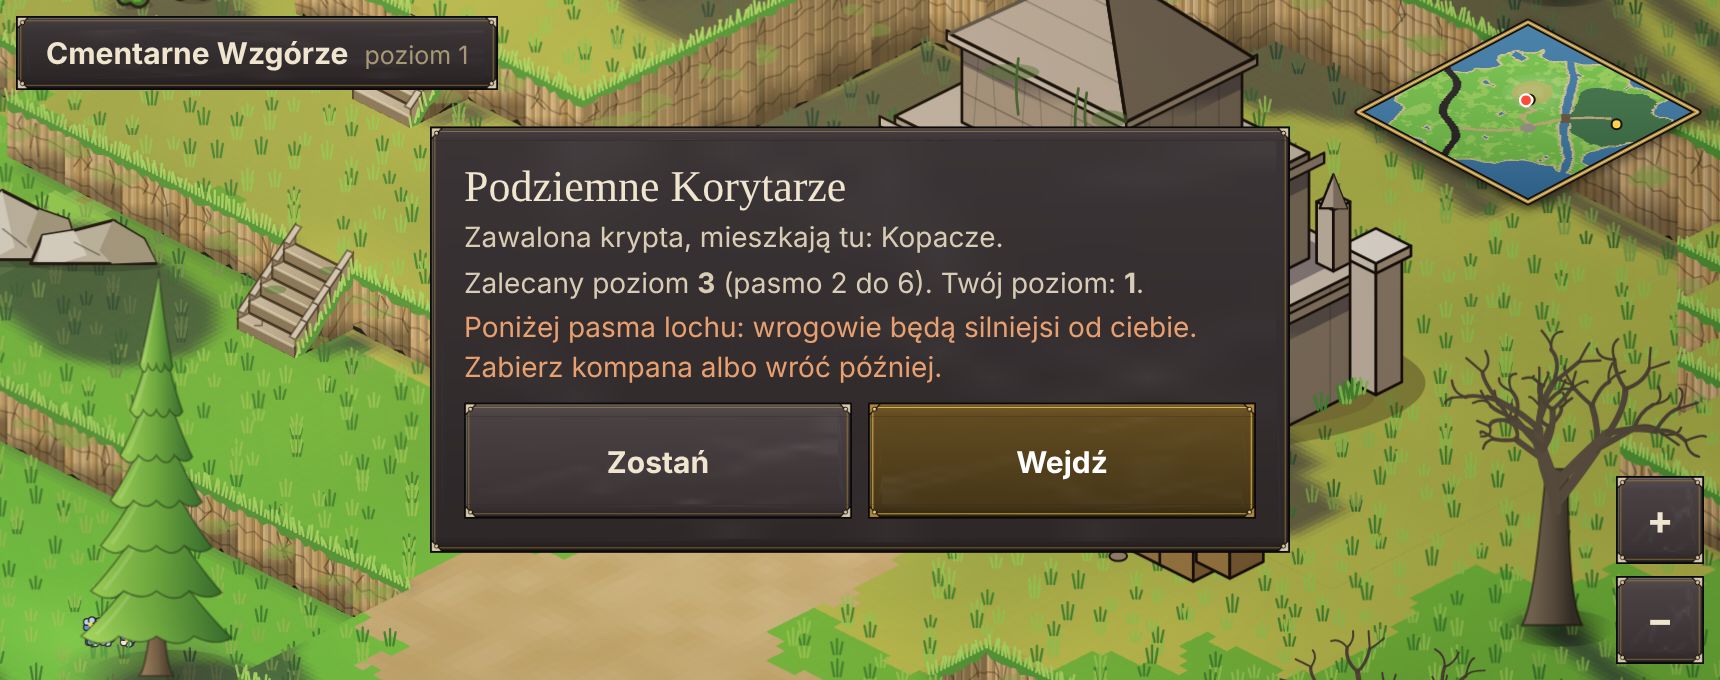
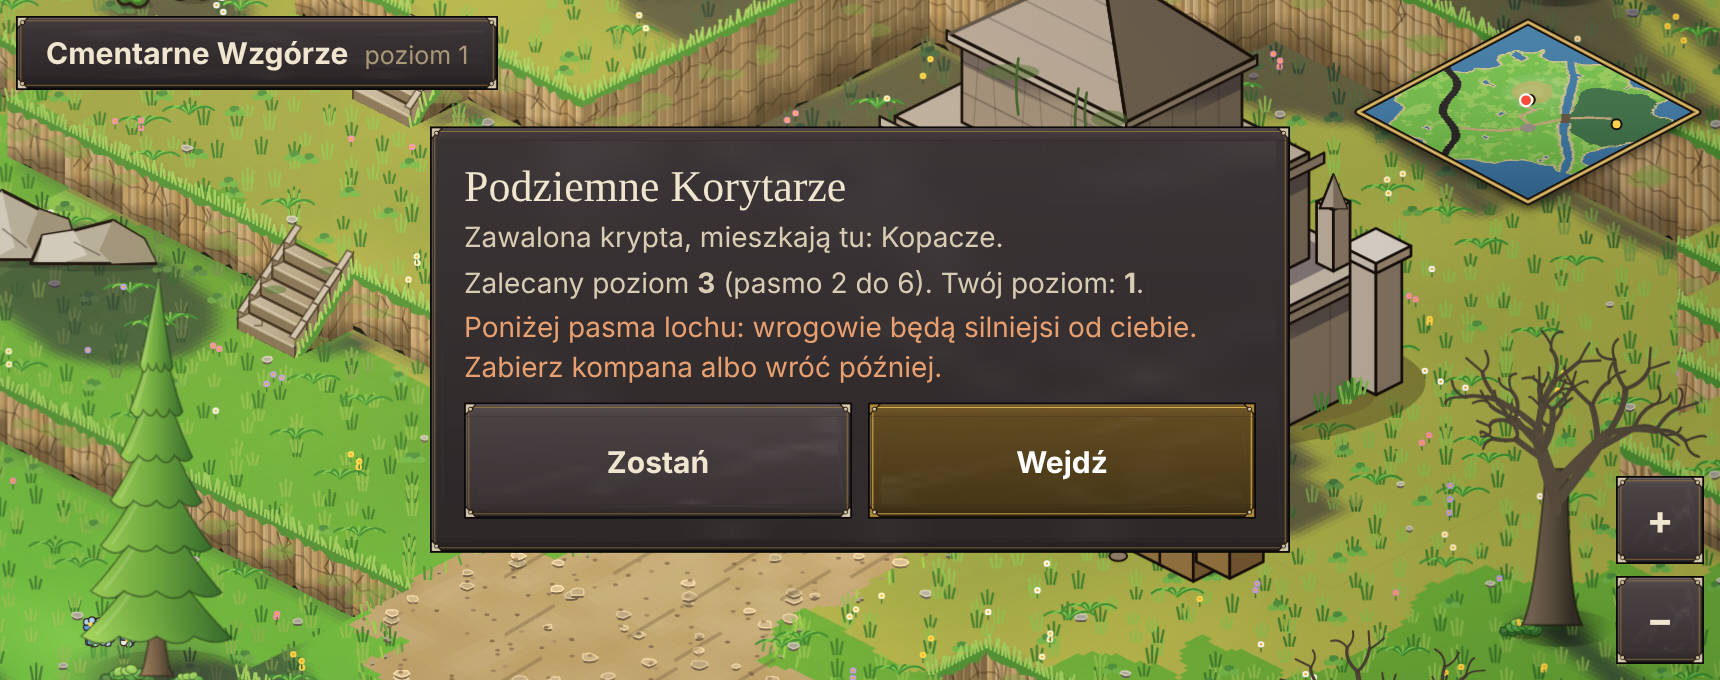
Bogatszy grunt: kocie łby na placu, kamienie i koleiny na drogach, kwiaty, paprocie, kamyki, gładsze granice gruntu, kępy liści przy budynkach i drzewach, dachy z zaokrąglonymi dachówkami i żywszą paletą
Claude-Session: https://claude.ai/code/session_01YGgK3XekFYaLDhBRBtmmRq

diff --git a/src/art/worldview.js b/src/art/worldview.js
@@ -71,6 +71,46 @@ export class WorldView {
     for (let j = 2; j < n - 2; j++) for (let i = 0; i < n; i++) { let v = 0; for (let d = -2; d <= 2; d++) v += tmp[(j + d) * n + i] * K[d + 2]; bl[j * n + i] = v / 9; }
     return { x0, y0, n, arr, bl };
   }
+  // detale gruntu: kocie łby na placu, kamienie i koleiny na drogach, kwiaty, koniczyna, paprocie, kamyki i źdźbła na brzegach ścieżek
+  drawDecals(g, tx, ty, z0, kind, ts, TINT) {
+    const w = this.w, K = w.KIND, P = (u, v) => this.proj(tx + u, ty + v, z0), h = (a, b = 0) => hash2(a * 7 + 3, tx * 13 + b, ty * 17 + b * 5);
+    const dk = (c) => rgbStr(ts > 0.02 ? [c[0] + (TINT[0] - c[0]) * ts, c[1] + (TINT[1] - c[1]) * ts, c[2] + (TINT[2] - c[2]) * ts] : c);
+    const stone = (u, v, r, col, hi, sd) => {
+      const pts = []; for (let i = 0; i < 8; i++) { const a = i / 8 * Math.PI * 2, rr = r * (0.82 + 0.36 * hash2(sd + i, tx * 5 + Math.round(u * 100), ty * 3 + Math.round(v * 100))); pts.push(P(u + Math.cos(a) * rr, v + Math.sin(a) * rr)); }
+      const path = (dy) => { g.beginPath(); g.moveTo(pts[0][0], pts[0][1] + dy); for (let i = 1; i < 8; i++) g.lineTo(pts[i][0], pts[i][1] + dy); g.closePath(); };
+      path(1.6); g.fillStyle = dk([col[0] * 0.55, col[1] * 0.52, col[2] * 0.5]); g.fill();   // bok kamienia
+      path(0); g.fillStyle = dk(col); g.fill();
+      if (hi) { path(-0.1); g.strokeStyle = dk([Math.min(255, col[0] + 38), Math.min(255, col[1] + 36), Math.min(255, col[2] + 30)]); g.lineWidth = 0.9; g.stroke(); }
+    };
+    const near = (dx, dy) => { const nx = tx + dx, ny = ty + dy; return nx < 0 || ny < 0 || nx >= N || ny >= N ? -1 : w.cellKind[ny * N + nx]; };
+    if (kind === K.plaza) {
+      // kocie łby: zaprawa jest już w tle, na niej 3 x 3 kamienie o różnych odcieniach
+      for (let j = 0; j < 3; j++) for (let i = 0; i < 3; i++) { const sd = i * 3 + j, u = (i + 0.5 + (h(sd, 1) - 0.5) * 0.3) / 3, v = (j + 0.5 + (h(sd, 2) - 0.5) * 0.3) / 3, t = h(sd, 3), c = [150 + 46 * t + 10 * h(sd, 4), 142 + 42 * t, 124 + 36 * t - 8 * h(sd, 5)]; stone(u, v, 0.15 + 0.035 * h(sd, 6), c, true, 50 + sd); }
+      return;
+    }
+    if (kind === K.road) {
+      for (let q = 0; q < 3; q++) if (h(10 + q) < 0.7) stone(0.14 + 0.72 * h(20 + q), 0.14 + 0.72 * h(30 + q), 0.05 + 0.05 * h(40 + q), [176 + 40 * h(50 + q), 156 + 34 * h(50 + q), 120 + 26 * h(50 + q)], true, 70 + q);
+      for (let q = 0; q < 6; q++) { const p = P(0.08 + 0.84 * h(60 + q), 0.08 + 0.84 * h(70 + q)); g.fillStyle = dk([120 + 50 * h(80 + q), 98 + 40 * h(80 + q), 70 + 30 * h(80 + q)]); g.beginPath(); g.ellipse(p[0], p[1], 1.6, 0.9, 0, 0, 7); g.fill(); }
+      // koleiny: dwie ciemniejsze smugi wzdłuż drogi
+      if (h(90) < 0.55) { const u = 0.3 + 0.4 * h(91), a = P(u, 0.05), b = P(u + 0.08, 0.95); g.strokeStyle = dk([100, 80, 56]); g.globalAlpha = 0.35; g.lineWidth = 2.2; g.beginPath(); g.moveTo(a[0], a[1]); g.lineTo(b[0], b[1]); g.stroke(); g.globalAlpha = 1; }
+      // brzeg: trawa wchodzi na drogę
+      for (const [dx, dy, ed] of [[1, 0, 1], [-1, 0, 0], [0, 1, 1], [0, -1, 0]]) { const nk = near(dx, dy); if (nk < 0 || nk > K.moss) continue; g.lineCap = 'round'; g.lineWidth = 1.5; for (let q = 0; q < 4; q++) { const t = 0.1 + 0.8 * h(100 + q + (dx ? 0 : 10)), p = dx ? P(ed, t) : P(t, ed), bh = 4 + 4 * h(110 + q); g.strokeStyle = q % 2 ? '#5a9a3a' : '#8ac04a'; g.beginPath(); g.moveTo(p[0], p[1]); g.lineTo(p[0] + (h(120 + q) - 0.5) * 5, p[1] - bh); g.stroke(); } }
+      return;
+    }
+    if (kind <= K.moss || kind === K.dry) {
+      const moss = kind === K.moss;
+      // kępki liści (koniczyna i paproć) w dwóch odcieniach, żeby trawa nie była jednolitym dywanem
+      for (let q = 0; q < 2; q++) if (h(130 + q) < 0.45) { const p = P(0.15 + 0.7 * h(140 + q), 0.15 + 0.7 * h(150 + q)), fern = h(160 + q) < 0.4, cols = moss ? ['#2c5a30', '#4a8a46'] : ['#3a8a30', '#7ac04a'];
+        if (fern) { g.lineWidth = 1.3; g.lineCap = 'round'; for (let k = -3; k <= 3; k++) { g.strokeStyle = k % 2 ? cols[0] : cols[1]; g.beginPath(); g.moveTo(p[0], p[1]); g.quadraticCurveTo(p[0] + k * 3, p[1] - 8, p[0] + k * 5.4, p[1] - 5 + Math.abs(k)); g.stroke(); } }
+        else for (let k = 0; k < 3; k++) { g.fillStyle = dk(k % 2 ? [74, 140, 60] : [110, 176, 70]); g.beginPath(); g.ellipse(p[0] + (k - 1) * 3.2, p[1] - (k === 1 ? 2.6 : 0), 3, 2, 0, 0, 7); g.fill(); } }
+      // kwiaty (tylko na łąkach, rzadziej w lesie)
+      if (!moss && h(170) < 0.3) { const n = 1 + Math.floor(h(171) * 3), base = ['#fff6d0', '#ffd84a', '#f58ab0', '#b79af0', '#ffffff'][Math.floor(h(172) * 5)]; for (let k = 0; k < n; k++) { const p = P(0.15 + 0.7 * h(173 + k), 0.15 + 0.7 * h(180 + k)); g.fillStyle = dk([60, 110, 50]); g.fillRect(p[0] - 0.4, p[1] - 4, 0.8, 4); g.fillStyle = base; g.beginPath(); g.arc(p[0], p[1] - 5, 2, 0, 7); g.fill(); g.fillStyle = '#f0a820'; g.beginPath(); g.arc(p[0], p[1] - 5, 0.8, 0, 7); g.fill(); } }
+      // kamyki
+      if (h(190) < 0.16) stone(0.2 + 0.6 * h(191), 0.2 + 0.6 * h(192), 0.04 + 0.04 * h(193), [150 + 30 * h(194), 148 + 28 * h(194), 138 + 24 * h(194)], true, 200);
+      // brzeg trawy przy drodze i placu: drobne źdźbła i kamyki wchodzą na ścieżkę
+      for (const [dx, dy] of [[1, 0], [-1, 0], [0, 1], [0, -1]]) { const nk = near(dx, dy); if (nk !== K.road && nk !== K.plaza && nk !== K.sand) continue; for (let q = 0; q < 3; q++) { const t = 0.12 + 0.76 * h(210 + q + (dx ? 0 : 7)), e = dx > 0 || dy > 0 ? 0.94 : 0.06, p = dx ? P(e, t) : P(t, e); if (h(220 + q) < 0.35) stone(dx ? e : t, dx ? t : e, 0.03, [168, 160, 140], false, 230 + q); else { g.strokeStyle = q % 2 ? '#4a8a30' : '#9ac84a'; g.lineWidth = 1.5; g.lineCap = 'round'; g.beginPath(); g.moveTo(p[0], p[1]); g.lineTo(p[0] + (h(240 + q) - 0.5) * 4, p[1] - 5 - 3 * h(250 + q)); g.stroke(); } } }
+    }
+  }
   drawTile(g, tx, ty) {
     const w = this.w, k = ty * N + tx, z = this.cornersZ(tx, ty), P = (fx, fy, zz) => this.proj(tx + fx, ty + fy, zz), K = w.KIND, kind = w.cellKind[k];
     if (w.ramp[k]) return this.drawRamp(g, tx, ty, z);
@@ -83,6 +123,10 @@ export class WorldView {
       const sv = []; let lo = 9, hi = -9, sum = 0;
       for (let q = 0; q < R * R; q++) { const v = sg.bl[(siy + j * R + Math.floor(q / R)) * sn + six + i * R + (q % R)]; sv.push(v); lo = Math.min(lo, v); hi = Math.max(hi, v); sum += v; }
       tileShade += sum / (R * R);
+      // granice rodzajów gruntu: gdy kolor wyraźnie się zmienia w obrębie rombu, dzielimy go na 4 (gładsze krawędzie dróg, trawy i piasku)
+      const um = (u0 + u1) / 2, vm = (v0 + v1) / 2, cc = [groundRGB(w, tx + (u0 + um) / 2, ty + (v0 + vm) / 2), groundRGB(w, tx + (um + u1) / 2, ty + (v0 + vm) / 2), groundRGB(w, tx + (u0 + um) / 2, ty + (vm + v1) / 2), groundRGB(w, tx + (um + u1) / 2, ty + (vm + v1) / 2)];
+      let dc = 0; for (const c4 of cc) dc = Math.max(dc, Math.abs(c4[0] - col[0]), Math.abs(c4[1] - col[1]), Math.abs(c4[2] - col[2]));
+      if (dc > 14) { for (let q = 0; q < 4; q++) { const qi = q & 1, qj = q >> 1, shq = sg.bl[(siy + j * R + qj * (R >> 1) + (R >> 2)) * sn + six + i * R + qi * (R >> 1) + (R >> 2)]; g.fillStyle = mix(cc[q], shq); quad(qi ? um : u0, qj ? vm : v0, qi ? u1 : um, qj ? v1 : vm, zz); } continue; }
       if (hi - lo < 0.025) { g.fillStyle = mix(col, sum / (R * R)); quad(u0, v0, u1, v1, zz); continue; }
       for (let q = 0; q < R * R; q++) { const qi = q % R, qj = Math.floor(q / R); g.fillStyle = mix(col, sv[q]); quad(u0 + qi / (R * SUBN), v0 + qj / (R * SUBN), u0 + (qi + 1) / (R * SUBN), v0 + (qj + 1) / (R * SUBN), zz); }
     }
@@ -90,6 +134,7 @@ export class WorldView {
     // trawiaste kępki malarsko pokrywają równe powierzchnie
     if (kind <= K.moss || kind === K.dry) { let gc = kind === K.moss ? ['#2a4a2a', '#4a7a3a'] : ['#3a7a2a', '#8ab84a']; if (tileShade > 0.02) gc = gc.map((hx) => { const r = parseInt(hx.slice(1, 3), 16), gg2 = parseInt(hx.slice(3, 5), 16), bb = parseInt(hx.slice(5, 7), 16); return rgbStr([r + (TINT[0] - r) * tileShade, gg2 + (TINT[1] - gg2) * tileShade, bb + (TINT[2] - bb) * tileShade]); }); g.lineWidth = 1.4; g.lineCap = 'round';
       for (let t = 0; t < 5; t++) { const fx = 0.12 + 0.76 * hash2(21 + t, tx, ty), fy = 0.12 + 0.76 * hash2(31 + t, tx, ty), p = P(fx, fy, z[0]), h = 5 + 4 * hash2(41 + t, tx, ty); g.strokeStyle = t % 2 ? gc[0] : gc[1]; g.beginPath(); g.moveTo(p[0] - 2, p[1]); g.lineTo(p[0] - 3.5, p[1] - h); g.moveTo(p[0], p[1]); g.lineTo(p[0], p[1] - h - 2); g.moveTo(p[0] + 2, p[1]); g.lineTo(p[0] + 3.5, p[1] - h); g.stroke(); } }
+    this.drawDecals(g, tx, ty, z[0], kind, tileShade, TINT);
     // ściany skalne po stronie widocznej (+x i +y), tam gdzie sąsiad jest niżej
     for (const [dx, dy, side] of [[1, 0, 'R'], [0, 1, 'L']]) {
       const nx = tx + dx, ny = ty + dy; if (nx >= N || ny >= N) continue;

diff --git a/src/art/buildings.js b/src/art/buildings.js
@@ -1,7 +1,7 @@
 // Generator budynków. genBuilding(ziarno, rodzaj) losuje specyfikację, drawBuilding rysuje ją w rzucie izometrycznym.
 // (X,Y) to przedni dolny róg budynku (róg S). Lewa ściana patrzy w lewo-dół (cień), prawa w prawo-dół (światło).
 import { rng } from './rng.js';
-import { kit, OUT, plane, planeEllipse, RECEDE } from './kit.js';
+import { kit, OUT, plane, planeEllipse, RECEDE, leafClump } from './kit.js';
 import { TW, TH } from '../grid.js';
 import { shade, mix } from './color.js';
 import { PROPS } from './props.js';
@@ -14,7 +14,7 @@ export const KINDS = ['cottage', 'townhouse', 'tavern', 'shop', 'tower', 'farmho
 const PLASTER = ['#f6ecc9', '#efd9a0', '#f1dfc8', '#e9e2cf', '#f4d9b8', '#dfe6d8', '#e8cfa8', '#f2c9b0', '#f8f2e0'];
 const TIMBER = ['#6a3f1c', '#4a2e1a', '#7a4a26', '#5a3a2a', '#3e3a36'];
 const STONE = ['#b9b1a0', '#a29a8a', '#c4b898', '#9a9e98', '#b0a48c'];
-const ROOF = ['#c0582c', '#a8452a', '#7a8a98', '#6a8a6a', '#8a5a3a', '#b04a3a', '#5a6a86', '#c07a3a', '#9a6a4a'];
+const ROOF = ['#c0582c', '#a8452a', '#7a8a98', '#6a8a6a', '#8a5a3a', '#b04a3a', '#5a6a86', '#c07a3a', '#9a6a4a', '#d8742a', '#2f8aa0', '#c84a5a', '#4a7ac0', '#d89a2a'];
 const SHUT = ['#2f6a4a', '#a8352a', '#2a5a8a', '#6a3f1c', '#7a4a8a', '#c08a2a'];
 const FLOWER = ['#e8483a', '#f0c83a', '#f07aa8', '#ffffff', '#a86ae0', '#ff9a3a'];
 const AWN = [['#c8382a', '#fff3d8'], ['#2a6aa8', '#fff3d8'], ['#2f8a4a', '#fff3d8'], ['#d89a1a', '#fff3d8'], ['#8a3a8a', '#fff3d8']];
@@ -201,6 +201,8 @@ export function drawBuilding(g, X, Y, s) {
   // pas wysunięcia piętra (jetty)
   if (s.jetty && s.floors >= 2) for (const id of ['L', 'R']) { const f = faces[id], { F } = fo(id), v = s.fh; const nn = f.n, A = F(0, v + 3), B = F(1, v + 3); poly([A, B, [B[0] + nn[0] * 4, B[1] + nn[1] * 4 + 0], [A[0] + nn[0] * 4, A[1] + nn[1] * 4]], shade(s.timber, 0.04), 1.3); poly([[A[0] + nn[0] * 4, A[1] + nn[1] * 4], [B[0] + nn[0] * 4, B[1] + nn[1] * 4], [B[0] + nn[0] * 4, B[1] + nn[1] * 4 + 4], [A[0] + nn[0] * 4, A[1] + nn[1] * 4 + 4]], shade(s.timber, -0.08), 1.1); }
   ln([Wp, up(Wp, h)], 2, OUT); ln([S, up(S, h)], 2, OUT); ln([E, up(E, h)], 2, OUT);
+  // kępy liści i kwiatów przy podstawie murów: budynek wyrasta z ziemi (nie przy drzwiach)
+  { const rr = rng(s.seed * 313 + 7), spots = [[Wp, S, 0.12], [Wp, S, 0.82], [S, E, 0.18], [S, E, 0.9], [Wp, S, 0.5]]; for (const [a, b, t] of spots) { if (rr() < 0.3) continue; const p = [a[0] + (b[0] - a[0]) * t, a[1] + (b[1] - a[1]) * t + 4]; if (Math.abs(t - (b === E ? 1 - s.doorU : s.doorU)) < 0.16 && ((b === E) === (s.doorFace === 'R'))) continue; leafClump(g, p[0], p[1], 0.7 + rr() * 0.5, rr, rr() < 0.7); } }
   // narożniki z kamienia
   if (!isStone) for (const p of [Wp, S, E]) for (let v = 0; v < h; v += 9) poly([[p[0] - 2.4, p[1] - v], [p[0] + 2.4, p[1] - v], [p[0] + 2.4, p[1] - v - 7], [p[0] - 2.4, p[1] - v - 7]], v % 18 ? shade(s.stone, 0.06) : shade(s.stone, -0.04), 0.9);
 
@@ -270,6 +272,9 @@ export function drawBuilding(g, X, Y, s) {
       ln([p0, p1], 1, 'rgba(60,22,8,.5)'); ln([[p0[0], p0[1] + 1.6], [p1[0], p1[1] + 1.6]], 1, 'rgba(255,220,170,.26)');
       const tn = Math.max(2, Math.round(dist(p0, p1) / 9)), q0 = lerp(A, D, Math.min(1, t + 0.5 / rows)), q1 = lerp(B, Cc, Math.min(1, t + 0.5 / rows));
       for (let j = 0; j < tn; j++) { const u = (j + (i % 2 ? 0.5 : 0)) / tn; if (u > 1) continue; ln([lerp(p0, p1, u), lerp(q0, q1, u)], 0.8, 'rgba(60,22,8,.32)'); }
+      // zaokrąglone końce dachówek i niejednakowe odcienie: dach jest malowany, a nie narysowany linijką
+      const ang = Math.atan2(p1[1] - p0[1], p1[0] - p0[0]);
+      for (let j = 0; j < tn; j++) { const u = (j + (i % 2 ? 1 : 0.5)) / tn, c = lerp(p0, p1, Math.min(1, u)), tone = (r() - 0.5) * 0.12; g.beginPath(); g.ellipse(c[0], c[1] - 0.5, dist(p0, p1) / tn / 2 + 0.3, 2.6, ang, 0, Math.PI); g.fillStyle = shade(rc, tone + (i % 2 ? 0.03 : -0.01)); g.globalAlpha = 0.85; g.fill(); g.globalAlpha = 1; g.lineWidth = 0.8; g.strokeStyle = 'rgba(60,22,8,.4)'; g.stroke(); }
     }
   }
   function thatchFringe(a, b) { if (!s.thatch) return; const n = Math.round(dist(a, b) / 4); const pts = [a]; for (let i = 1; i < n; i++) { const p = lerp(a, b, i / n); pts.push([p[0], p[1] + 2 + r() * 3.5]); } pts.push(b); ln(pts, 2.2, OUT); ln(pts, 1, mix(rc, '#ffffff', 0.2)); }

diff --git a/src/art/kit.js b/src/art/kit.js
@@ -16,6 +16,21 @@ export function kit(g) {
   return { lerp, lg, path, poly, ln, blob, circ, ell };
 }
 
+// Kępa liści z kwiatami przy podstawie budowli, drzewa albo skały: kilka nachodzących na siebie listków w trzech odcieniach, cień pod spodem.
+// rnd to funkcja 0..1 (np. rng(ziarno)), sc skala.
+export function leafClump(g, x, y, sc, rnd, flowers = true) {
+  g.save(); g.translate(x, y); g.scale(sc, sc);
+  g.globalAlpha = 0.3; g.fillStyle = '#0a1204'; g.beginPath(); g.ellipse(3, 2, 15, 5, 0, 0, 7); g.fill(); g.globalAlpha = 1;
+  const cols = ['#2f6a2c', '#4a9a3a', '#86c24e'];
+  for (let layer = 0; layer < 3; layer++) for (let i = 0; i < 5 - layer; i++) {
+    const lx = (i - (4 - layer) / 2) * (7 - layer) + (rnd() - 0.5) * 3, ly = -layer * 3.4 - rnd() * 2, rx = 6.2 - layer * 0.8, ry = 4.4 - layer * 0.5, a = (rnd() - 0.5) * 0.9;
+    g.beginPath(); g.ellipse(lx, ly, rx, ry, a, 0, 7); g.fillStyle = cols[layer]; g.fill(); g.lineWidth = 0.9; g.strokeStyle = 'rgba(15,40,12,.55)'; g.stroke();
+    g.beginPath(); g.ellipse(lx - 1.2, ly - 1.2, rx * 0.5, ry * 0.4, a, 0, 7); g.fillStyle = 'rgba(255,255,200,.16)'; g.fill();
+  }
+  if (flowers) { const fc = ['#ffd84a', '#f58ab0', '#ffffff', '#b79af0', '#ff8a3a'][Math.floor(rnd() * 5)]; for (let i = 0; i < 4; i++) { const fx = (rnd() - 0.5) * 18, fy = -6 - rnd() * 6; g.fillStyle = fc; g.beginPath(); g.arc(fx, fy, 1.9, 0, 7); g.fill(); g.fillStyle = '#f0a820'; g.beginPath(); g.arc(fx, fy, 0.7, 0, 7); g.fill(); } }
+  g.restore();
+}
+
 // ---- rysowanie w płaszczyznach izometrycznych ----
 // Wszystko, co wisi na ścianie albo leży w świecie, musi być rysowane w płaszczyźnie swojej ściany, a nie wprost na ekran.
 // Płaszczyzna 'L' to ściana patrząca w lewo-dół (rozpięta wzdłuż osi x), 'R' patrząca w prawo-dół (rozpięta wzdłuż osi y).

diff --git a/src/art/trees.js b/src/art/trees.js
@@ -2,6 +2,7 @@
 // Punkt (x,y) to środek podstawy pnia. Oświetlenie z lewej góry, cień na ziemi jest miękki.
 import { rng } from './rng.js';
 import { hsl, shade } from './color.js';
+import { leafClump } from './kit.js';
 
 export const SPECIES = ['oak', 'pine', 'birch', 'dead', 'swamp'];
 const PAL = {
@@ -37,6 +38,8 @@ export function drawTree(g, x, y, sp) {
   const r = rng(sp.seed * 131 + 7), P = PAL[sp.biome].map((c) => hsl(c[0] + r.range(-5, 5), c[1], c[2]));
   g.save();
   shadow(g, x, y, sp.species === 'pine' ? 54 : sp.species === 'dead' ? 34 : 74);
+  // kępy liści i korzenie przy pniu: drzewo wyrasta z ziemi
+  { const rr = rng(sp.seed * 17 + 3), n = sp.species === 'dead' ? 1 : 2; for (let i = 0; i < n; i++) { const sd = i ? 1 : -1; leafClump(g, x + sd * (sp.trunkW * 0.5 + 8 + rr() * 6), y + 2 + rr() * 3, 0.55 + rr() * 0.3, rr, rr() < 0.4); } }
   if (sp.species === 'oak' || sp.species === 'swamp') {
     const th = sp.trunkH, cy = y - th - sp.crownH * 0.45, sw = sp.species === 'swamp';
     trunk(g, x, y, sp.trunkW, th, sp.lean, sw ? shade(sp.bark, -0.06) : sp.bark);

diff --git a/src/art/groundcolor.js b/src/art/groundcolor.js
@@ -33,7 +33,7 @@ export function groundRGB(w, x, y) {
   else if (kind === K.dry) c = hslRgb(66 - 8 * n3, 0.42, 0.46 + 0.07 * (n3 - 0.5));
   else if (kind === K.sand) c = hslRgb(46 + 4 * n3, 0.46, 0.66 + 0.06 * (n2 - 0.5));
   else if (kind === K.road) c = hslRgb(36 + 5 * n3, 0.36, 0.58 + 0.07 * (n2 - 0.5));
-  else if (kind === K.plaza) { const st = hash2(seed + 77, Math.floor(x * 1.6), Math.floor(y * 1.6)); c = hslRgb(38, 0.1, 0.5 + 0.12 * st); }
+  else if (kind === K.plaza) c = hslRgb(36, 0.14, 0.3 + 0.05 * (n2 - 0.5));   // zaprawa między kocimi łbami (kamienie rysuje drawDecals)
   else if (kind === K.meadow) c = mix(grass, hslRgb(84, 0.58, 0.58), 0.55);
   else c = grass;
   return c;
